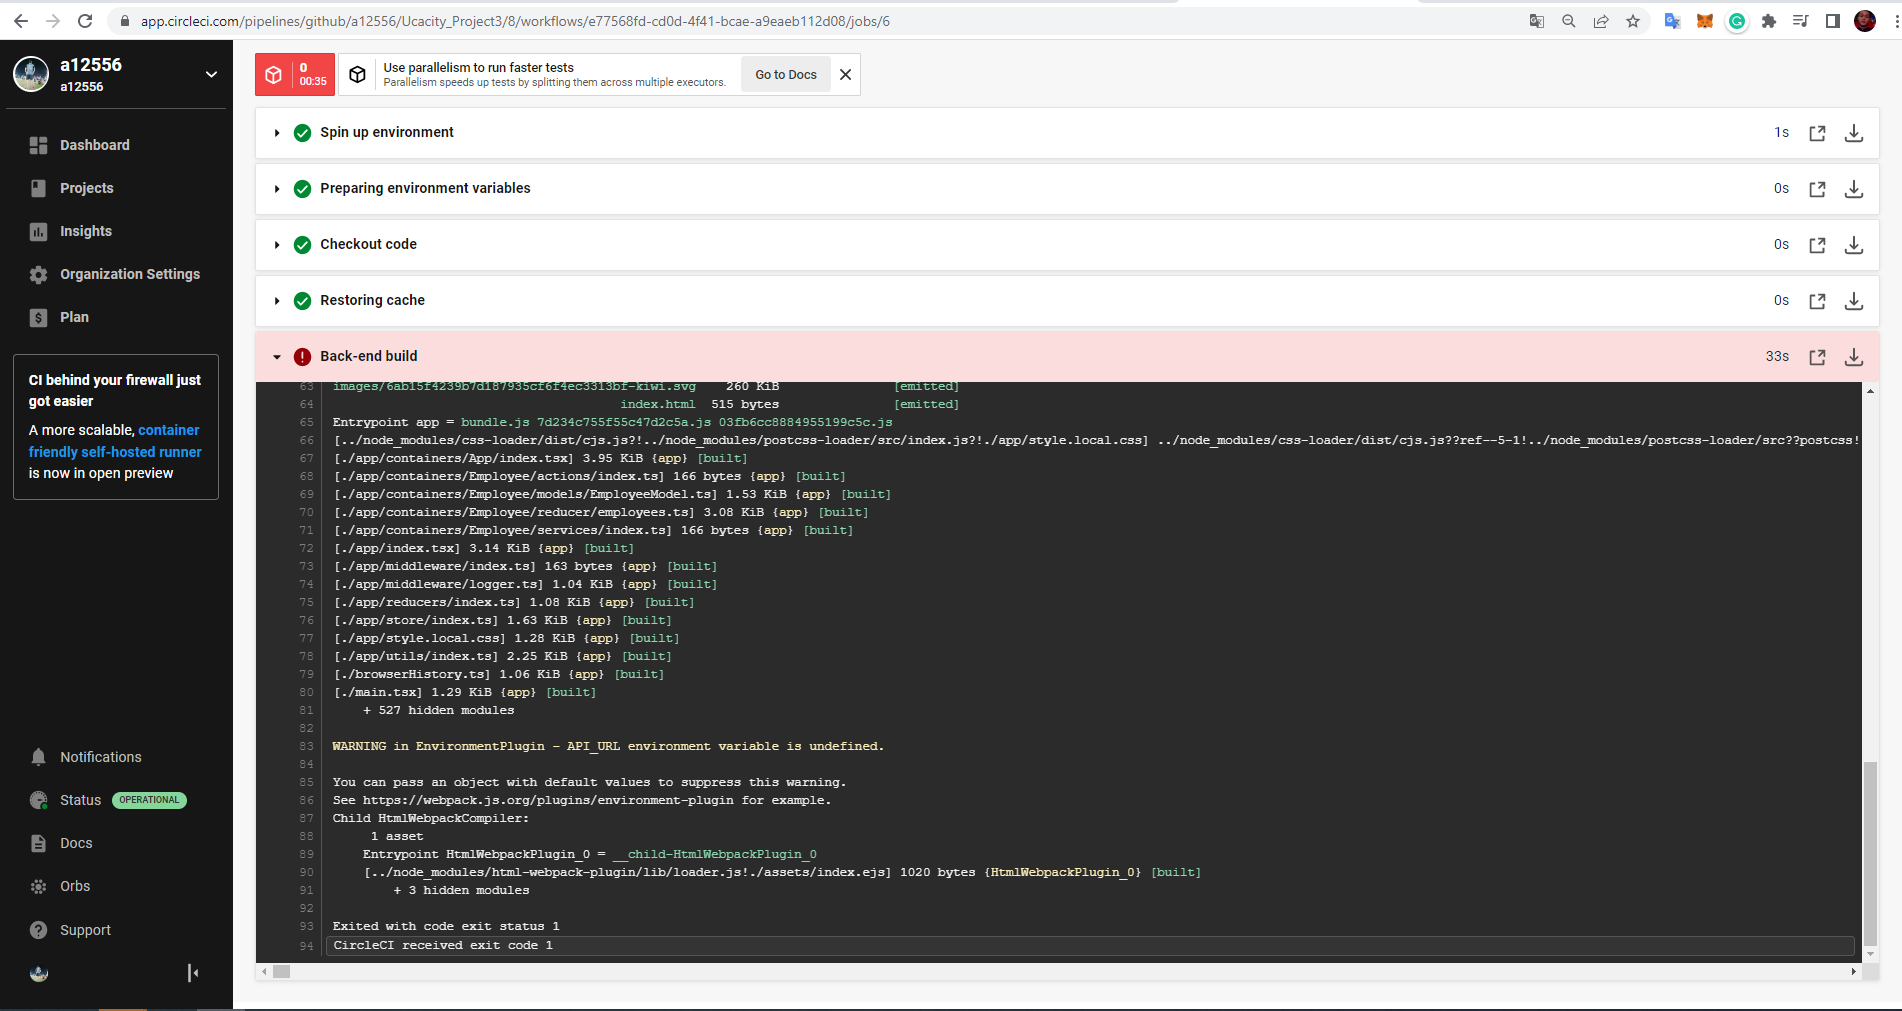
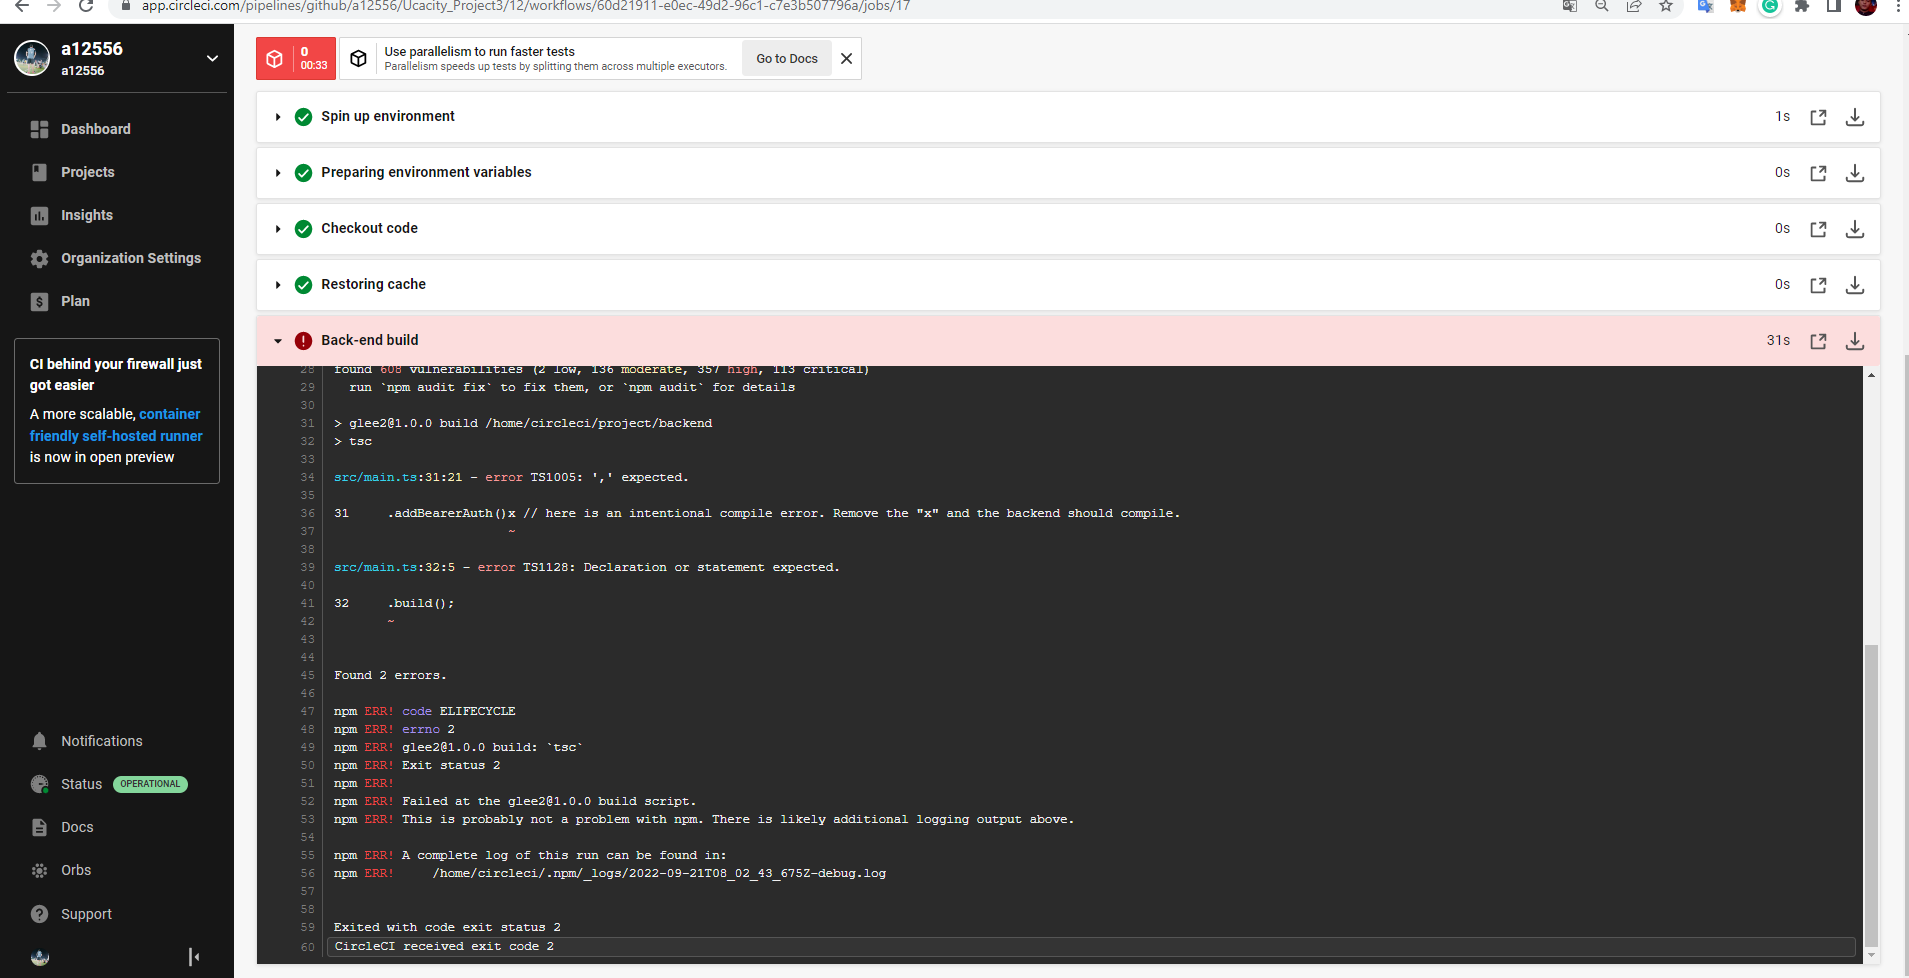
update

diff --git a/backend/src/main.ts b/backend/src/main.ts
@@ -28,7 +28,7 @@ async function bootstrap() {
     .setVersion('1.0')
     .addTag('customTag')
     .setBasePath(apiVersionPrefix)
-    .addBearerAuth()x // here is an intentional compile error. Remove the "x" and the backend should compile.
+    .addBearerAuth() // here is an intentional compile error. Remove the "x" and the backend should compile.
     .build();
   const document = SwaggerModule.createDocument(app, options);
   SwaggerModule.setup(`api/${apiVersionPrefix}`, app, document);

diff --git a/frontend/src/app/components/LoadingMessage/LoadingMessage.spec.tsx b/frontend/src/app/components/LoadingMessage/LoadingMessage.spec.tsx
@@ -8,7 +8,7 @@ describe('<LoadingMessage>', () => {
       it('Should render the props message', () => {
         const message = 'Hello!';
         const wrapper = shallow(<LoadingMessage message={message} />);
-        expect(wrapper.contains(<span>{message}</span>)).toBeTruthy(); //remove the question mark to make the test pass
+        expect(wrapper.contains(<span>{message}?</span>)).toBeTruthy(); //remove the question mark to make the test pass
       });
     });
   });

diff --git a/backend/src/modules/domain/employees/commands/handlers/employee-activator.handler.spec.ts b/backend/src/modules/domain/employees/commands/handlers/employee-activator.handler.spec.ts
@@ -19,7 +19,7 @@ describe('Employee Remover', () => {
       const handler = new EmployeeActivator(employeeRepository);
 
       const params = {
-        employeeId: 100, //change this to 100 to make the test pass
+        employeeId: 101, //change this to 100 to make the test pass
         isActive: false,
       };
 
